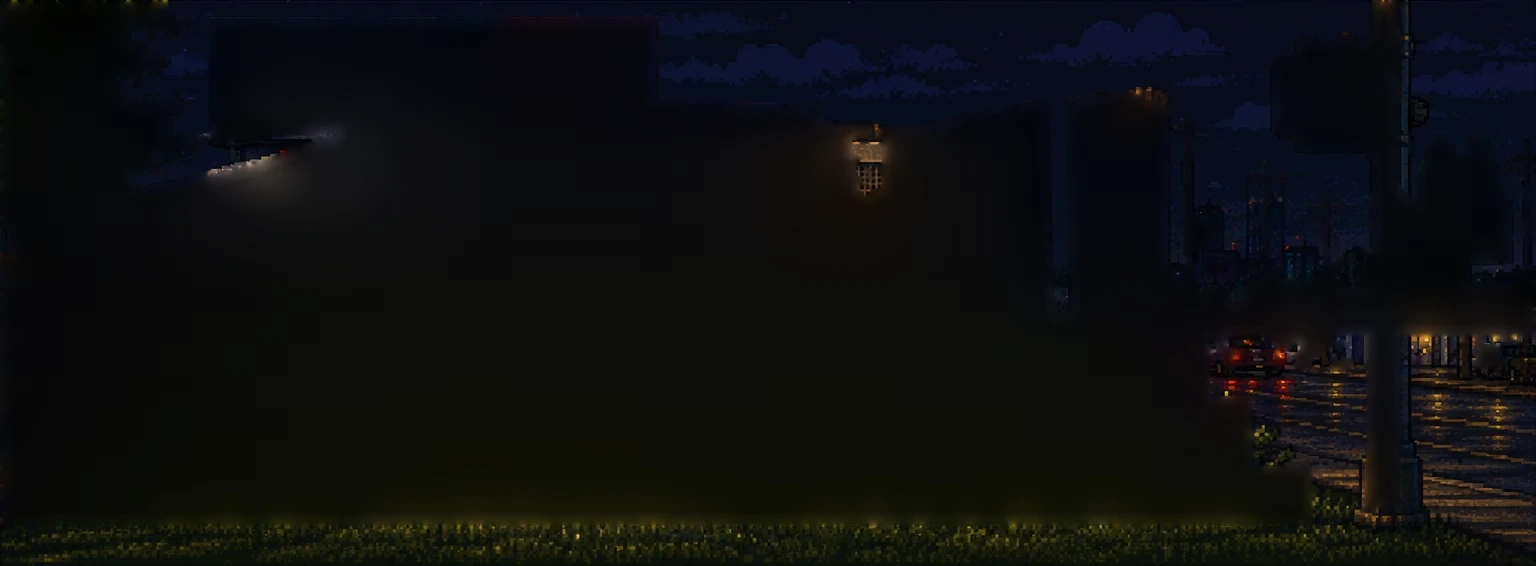
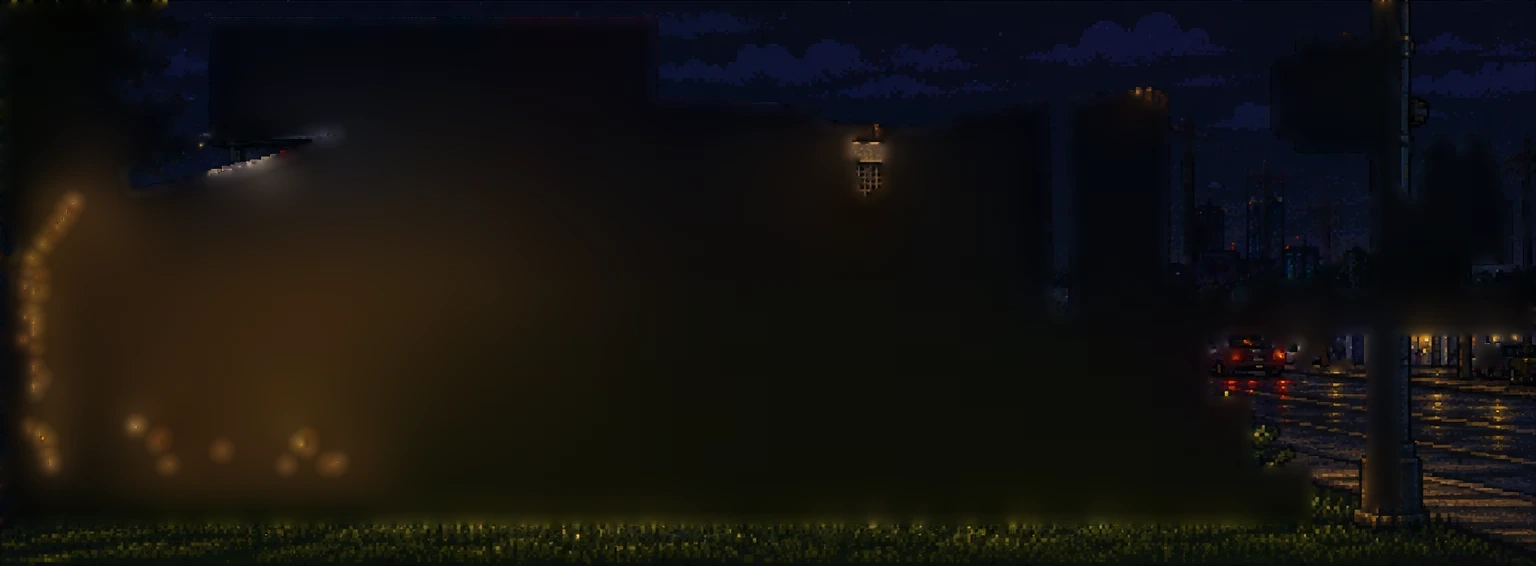
Fix multiplane stutter, restore the old tree sway, stop the Citgo splitting
Three faults in the multiplane pass, all reported and all real.

STUTTER. Every card was blitting its full 1536-wide frame, and a swaying
card did that once per section — about 165 scaled full-frame blits a frame,
44 megapixels of fill. Cards now blit only the horizontal slice they occupy,
clipped to the viewport, and cull on their own extent rather than the
plate's; `span` per card comes from <stage>-planes.json. The base plate gets
the same treatment — at real-world scale it is several times wider than the
canvas, so most of that blit was always off screen.

  before this pass   37.4 ms/frame   44.38 Mpx
  after              26.5 ms/frame    2.90 Mpx
  pre-multiplane     22.5 ms/frame    1.94 Mpx   (same rig, for scale)

So the whole set of ten cards now costs ~4 ms over the flat plate it
replaced, against the ~15 ms it was costing.

TREE SWAY. Shearing a whole card about one pivot made the tree lean like a
rigid cutout hinged at the trunk. What reads as foliage is many small
sections of the crown drifting out of step. `sway` is back to the old
windBands structure verbatim — same top, pivot, amp, freq and x-ranges,
subdivided WITHIN each window — only now scoped to one card, so it still
cannot wobble the architecture beside it. Pivot sits at the bottom of the
leaf mass, so the trunk below it does not move at all. Only leaves move.

CITGO SPLITTING. The tree card was carrying a slice of the Citgo canopy, so
[…]

Changed region(s): [[0.0, 0.3004, 0.3438, 0.871]]

diff --git a/src/render/backdrop.js b/src/render/backdrop.js
@@ -166,8 +166,15 @@ export function createBackdrop(ctx, canvas) {
       const x0 = Math.round(x);
       const x1 = Math.round(x + drawW);
       const tw = x1 - x0;
-      if (tw <= 0) continue;
-      g.drawImage(img, 0, 0, img.width, srcH, x0, by, tw, drawH);
+      if (tw <= 0 || x1 < 0 || x0 > canvas.width) continue;
+      // Blit only the columns that actually land on screen. At real-world
+      // scale the plate is several times wider than the canvas, so blitting
+      // the whole thing threw away most of the fill rate every frame.
+      const s0 = Math.max(0, Math.floor((img.width * -x0) / tw));
+      const s1 = Math.min(img.width, Math.ceil((img.width * (canvas.width - x0)) / tw));
+      if (s1 <= s0) continue;
+      g.drawImage(img, s0, 0, s1 - s0, srcH,
+        x0 + (tw * s0) / img.width, by, (tw * (s1 - s0)) / img.width, drawH);
     }
     g.restore();
 
@@ -194,46 +201,90 @@ export function createBackdrop(ctx, canvas) {
   // full-frame RGBA image of the same source, so the cutout is already in the
   // right place and only the horizontal offset differs.
 
-  function drawCardAt(g, img, plate, srcH, x0, sway, tick, seed) {
+  // Blit only the horizontal slice [u0,u1] of a card, in plate fractions.
+  // Cards are full-frame so a cutout is already in position, but blitting the
+  // whole frame for an item covering 8% of it is pure waste — and with three
+  // swaying cards re-blitting the full frame once per section it was enough
+  // to visibly stutter the whole game.
+  function drawSlice(g, img, plate, srcH, x0, u0, u1) {
+    // Clamp to the card AND to the screen: a card wider than the viewport
+    // would otherwise pay for columns nobody can see.
+    const vis0 = (0 - x0) / plate.drawW;
+    const vis1 = (canvas.width - x0) / plate.drawW;
+    const a = Math.max(0, Math.min(1, Math.max(u0, vis0)));
+    const b = Math.max(0, Math.min(1, Math.min(u1, vis1)));
+    if (b <= a) return;
+    const s0 = Math.floor(img.width * a);
+    const s1 = Math.ceil(img.width * b);
+    if (s1 <= s0) return;
+    g.drawImage(img, s0, 0, s1 - s0, srcH,
+      x0 + plate.drawW * (s0 / img.width), plate.by,
+      plate.drawW * ((s1 - s0) / img.width), plate.drawH);
+  }
+
+  function drawCardAt(g, img, plate, srcH, x0, card, tick, seed) {
     const { by, drawH, drawW } = plate;
-    if (!sway) {
-      g.drawImage(img, 0, 0, img.width, srcH, x0, by, drawW, drawH);
+    const [sx0, sx1] = card.span || [0, 1];
+    const bands = card.sway;
+    if (!bands || !bands.length) {
+      drawSlice(g, img, plate, srcH, x0, sx0, sx1);
       return;
     }
-    // Plant life. The card shears about its own pivot, so the trunk is nailed
-    // down and the crown travels. This is strictly better than the old
-    // plate-relative windBands: those had to pick x-ranges that dodged the
-    // hard architecture sharing the same horizontal band, and still wobbled
-    // the buildings. A card cannot touch anything but itself.
-    const bandTop = by + drawH * (sway.top || 0);
-    const pivotY = by + drawH * sway.pivot;
-    const bandH = Math.max(1, pivotY - bandTop);
 
+    // Rigid everywhere the sway windows do not reach. Punched out with an
+    // even-odd clip rather than drawn over, because a card has a soft alpha
+    // edge: drawing the sheared copy on top of a rigid one would composite
+    // that edge onto itself, and the rigid copy would still show through
+    // wherever the shear moved content away.
     g.save();
     g.beginPath();
-    g.rect(x0, by, drawW, Math.max(0, bandTop - by));
-    g.rect(x0, pivotY, drawW, Math.max(0, by + drawH - pivotY));
-    g.clip();
-    g.drawImage(img, 0, 0, img.width, srcH, x0, by, drawW, drawH);
+    g.rect(x0 + drawW * sx0, by, drawW * (sx1 - sx0), drawH);
+    for (const bd of bands) {
+      const t = by + drawH * (bd.top || 0);
+      for (const [a, b] of bd.xRanges) {
+        g.rect(x0 + a * drawW, t, (b - a) * drawW, drawH * bd.pivot - drawH * (bd.top || 0));
+      }
+    }
+    g.clip('evenodd');
+    drawSlice(g, img, plate, srcH, x0, sx0, sx1);
     g.restore();
 
-    // Sections butt together with no overlap. The plate version needed a few
-    // px of it, but a card has a soft alpha edge and overlapping sections
-    // would composite that edge onto itself and print a seam. The gust varies
-    // smoothly across neighbours, so the shear difference between two
-    // touching sections is well under a pixel anyway.
-    const secW = drawW / SECTIONS_PER_RANGE;
-    for (let i = 0; i < SECTIONS_PER_RANGE; i++) {
-      const sx = x0 + i * secW;
-      if (sx + secW < 0 || sx > canvas.width) continue;
-      const k = sway.amp * gustAt(tick, i * secW * 2.7 + seed, sway.freq);
-      g.save();
-      g.beginPath();
-      g.rect(sx, bandTop, secW, bandH);
-      g.clip();
-      g.transform(1, 0, -k / bandH, 1, (k * pivotY) / bandH, 0);
-      g.drawImage(img, 0, 0, img.width, srcH, x0, by, drawW, drawH);
-      g.restore();
+    for (const bd of bands) {
+      const bandTop = by + drawH * (bd.top || 0);
+      const pivotY = by + drawH * bd.pivot;
+      const bandH = Math.max(1, pivotY - bandTop);
+
+      for (const [a, b] of bd.xRanges) {
+        const rangeW = (b - a) * drawW;
+        if (rangeW <= 0) continue;
+        const secW = rangeW / SECTIONS_PER_RANGE;
+
+        for (let i = 0; i < SECTIONS_PER_RANGE; i++) {
+          const dx = x0 + a * drawW + i * secW;
+          if (dx + secW < 0 || dx > canvas.width) continue;
+
+          // Phase keyed to position on the plate plus the repeat index, so
+          // neighbouring sections drift out of step instead of the whole
+          // crown pulsing as one — and a given branch sways the same way on
+          // every repeat.
+          const phase = (a * drawW + i * secW) * 2.7 + seed + (bd.top || 0) * 900;
+          const k = bd.amp * gustAt(tick, phase, bd.freq);
+
+          g.save();
+          g.beginPath();
+          // Clip rects butt together exactly. The old plate version overlapped
+          // them by a few px to avoid gaps, but that would composite a card's
+          // alpha edge twice and print a seam. Instead the clip tiles cleanly
+          // and the SOURCE slice is widened to cover the shear.
+          g.rect(dx, bandTop, secW, bandH);
+          g.clip();
+          g.transform(1, 0, -k / bandH, 1, (k * pivotY) / bandH, 0);
+          const m = (Math.abs(k) + WIND_OVERLAP) / drawW;
+          drawSlice(g, img, plate, srcH, x0,
+            a + (i * secW) / drawW - m, a + ((i + 1) * secW) / drawW + m);
+          g.restore();
+        }
+      }
     }
   }
 
@@ -248,10 +299,13 @@ export function createBackdrop(ctx, canvas) {
       const srcH = Math.max(1, Math.round(img.height * stage.bg.groundFrac));
       const par = cardParallax(camera.x * camera.zoom, card.depth);
       const off = pmod(par, period);
+      const [sx0, sx1] = card.span || [0, 1];
       for (let rep = -1; rep <= reps; rep++) {
         const x0 = rep * period - off;
-        if (x0 + period < 0 || x0 > canvas.width) continue;
-        drawCardAt(g, img, plate, srcH, x0, card.sway, tick, rep * 211);
+        // Cull on the card's own extent, not the plate's — most cards are a
+        // small part of the frame and are off screen most of the time.
+        if (x0 + sx1 * period < 0 || x0 + sx0 * period > canvas.width) continue;
+        drawCardAt(g, img, plate, srcH, x0, card, tick, rep * 211);
       }
     }
   }

diff --git a/src/world/stages.js b/src/world/stages.js
@@ -81,26 +81,48 @@ export const STAGES = [
       // on top, which is what keeps the picture from coming apart. See
       // backdrop.js for why the spread is as narrow as it is.
       //
-      // `sway` replaces the old plate-relative windBands. Shearing a window
-      // of the flat plate meant picking x-ranges that dodged the hard
-      // architecture sharing that band, and it wobbled the buildings anyway.
-      // Now the plant is its own card, so it shears on its own pivot and
-      // cannot touch anything else — the trunk sits at the pivot and stays
-      // dead still while the crown travels.
+      // `span` is the card's content extent as x fractions of the plate,
+      // written out by tools/cut_planes.py into <stage>-planes.json. The
+      // renderer draws and culls against it, so a card that occupies 8% of
+      // the plate costs 8% of a full-frame blit instead of a whole one.
+      //
+      // `sway` is the OLD windBands structure, unchanged, but scoped to one
+      // card. Keeping the structure matters: shearing a whole card about a
+      // single pivot makes a tree lean like a rigid cutout, which is wrong —
+      // what reads as foliage is many small sections of the crown drifting
+      // out of step, subdivided WITHIN each window so a narrow window still
+      // gets fine motion. The pivot sits at the bottom of the leaf mass, not
+      // partway down the tree: shear is zero at the pivot and grows upward,
+      // so the trunk below it never moves. Only leaves move.
+      //
+      // What being a card buys is that the shear can no longer touch anything
+      // but this item — the old version had to pick x-ranges that dodged the
+      // billboard and canopy sharing the same horizontal band, and wobbled
+      // the architecture anyway.
       cards: [
-        { key: 'skyline', img: eavSkyline, depth: 0.07 },
-        { key: 'mcdonalds', img: eavMcdonalds, depth: 0.16 },
-        { key: 'cars', img: eavCars, depth: 0.21 },
-        { key: 'swifty', img: eavSwifty, depth: 0.25 },
-        { key: 'citgo', img: eavCitgo, depth: 0.41 },
-        { key: 'fence', img: eavFence, depth: 0.67 },
-        { key: 'verge', img: eavVerge, depth: 0.75,
-          sway: { top: 0.80, pivot: 0.95, amp: 1.4, freq: 2.2 } },
-        { key: 'tree', img: eavTree, depth: 0.81,
-          sway: { top: 0.00, pivot: 0.82, amp: 5, freq: 0.9 } },
-        { key: 'shrub_right', img: eavShrubRight, depth: 0.85,
-          sway: { top: 0.66, pivot: 0.85, amp: 2.5, freq: 1.7 } },
-        { key: 'pole', img: eavPole, depth: 1.00 },
+        { key: 'skyline', img: eavSkyline, depth: 0.07, span: [0.780, 1.000] },
+        { key: 'mcdonalds', img: eavMcdonalds, depth: 0.16, span: [0.913, 1.000] },
+        { key: 'cars', img: eavCars, depth: 0.21, span: [0.784, 0.999] },
+        { key: 'swifty', img: eavSwifty, depth: 0.25, span: [0.133, 0.432] },
+        { key: 'citgo', img: eavCitgo, depth: 0.41, span: [0.094, 0.559] },
+        { key: 'fence', img: eavFence, depth: 0.67, span: [0.217, 0.792] },
+        { key: 'verge', img: eavVerge, depth: 0.75, span: [0.000, 0.859] },
+        {
+          key: 'tree', img: eavTree, depth: 0.81, span: [0.000, 0.313],
+          sway: [
+            // CANOPY. Pivot at the bottom of the leaf mass — the trunk is
+            // below it and stays dead still.
+            { top: 0.02, pivot: 0.44, amp: 5, freq: 0.9, xRanges: [[0.00, 0.105]] },
+            // Low shrubs along the fence: shorter lever, so less travel at a
+            // quicker frequency.
+            { top: 0.52, pivot: 0.92, amp: 2.5, freq: 1.7, xRanges: [[0.085, 0.30]] },
+          ],
+        },
+        {
+          key: 'shrub_right', img: eavShrubRight, depth: 0.85, span: [0.737, 0.820],
+          sway: [{ top: 0.66, pivot: 0.88, amp: 2.5, freq: 1.7, xRanges: [[0.737, 0.820]] }],
+        },
+        { key: 'pole', img: eavPole, depth: 1.00, span: [0.823, 0.916] },
       ],
       // Practicals actually visible in the art: the Citgo canopy soffit, the
       // backlit Swifty billboard, the McDonald's sign, and the uplighters

diff --git a/index.html b/index.html
@@ -14,8 +14,17 @@
       -webkit-user-select: none; user-select: none;
       -webkit-tap-highlight-color: transparent;
       -webkit-touch-callout: none;
+      /* Kills double-tap-to-zoom. The viewport meta above asks for
+         user-scalable=no, but iOS Safari has ignored that since iOS 10 —
+         touch-action is the only thing that actually stops it, and a
+         double-tap mid-run zooming the board is unplayable. */
+      touch-action: manipulation;
     }
-    #game { display: block; width: 100vw; height: 100vh; image-rendering: pixelated; }
+    /* Stronger still on the board itself: no double-tap, no pinch, no pan. */
+    #game {
+      display: block; width: 100vw; height: 100vh; image-rendering: pixelated;
+      touch-action: none;
+    }
 
     /* ── ON-SCREEN CONTROLS ───────────────────────────────────────────
        Hidden by default and switched on by src/core/input.js only when a

diff --git a/src/core/input.js b/src/core/input.js
@@ -29,6 +29,14 @@ export function createInput() {
   }, { passive: false });
   window.addEventListener('keyup', (e) => keys.delete(e.code));
 
+  // iOS pinch-zoom. `touch-action` in index.html stops double-tap zoom, but
+  // Safari's gesture events are a separate path that ignores it, and a
+  // two-finger pinch mid-run zooms the board and makes the game unplayable.
+  // These events are WebKit-only; everywhere else they simply never fire.
+  for (const g of ['gesturestart', 'gesturechange', 'gestureend']) {
+    document.addEventListener(g, (e) => e.preventDefault(), { passive: false });
+  }
+
   const touch = { left: false, right: false, jump: false, dash: false };
 
   // Listeners are attached UNCONDITIONALLY; only VISIBILITY is gated on

diff --git a/tools/cut_planes.py b/tools/cut_planes.py
@@ -362,6 +362,7 @@ PLANES = {
                 (470, 264), (478, 306), (478, 470), (330, 508), (0, 508),
             ]],
             'reject': ['hot_red', 'pale_neutral'],
+            'reject_after': True,   # keep the canopy out of the tree for good
             'close': 1,      # consolidate the leaf mass without losing the edge
             'min_px': 400,
             'feather': 0.7,
@@ -469,6 +470,17 @@ def build_masks(rgb, items):
         if it.get('holes', True):
             m = ndi.binary_fill_holes(m)
         m &= roi
+        # Opt-in: re-apply the rejects AFTER the hole fill. Filling is what let
+        # the tree take the Citgo canopy back — the canopy tip is enclosed by
+        # foliage inside the tree's ROI, so it read as a hole and was filled
+        # straight back in after the colour rule had correctly removed it. The
+        # tree then carried a slice of hard architecture, and every time the
+        # tree sheared, the Citgo visibly split along that slice.
+        # NOT the default: the cars are held together BY their hole fill, and
+        # re-rejecting shadow there deletes all but a tenth of them.
+        if it.get('reject_after'):
+            for rname in it.get('reject', []):
+                m &= ~(REJECTS[rname](rgb) & rmask)
         if it.get('refine'):
             m = refine_grabcut(rgb, m, band=it.get('refine_band', 3)) & roi
             if it.get('holes', True):
